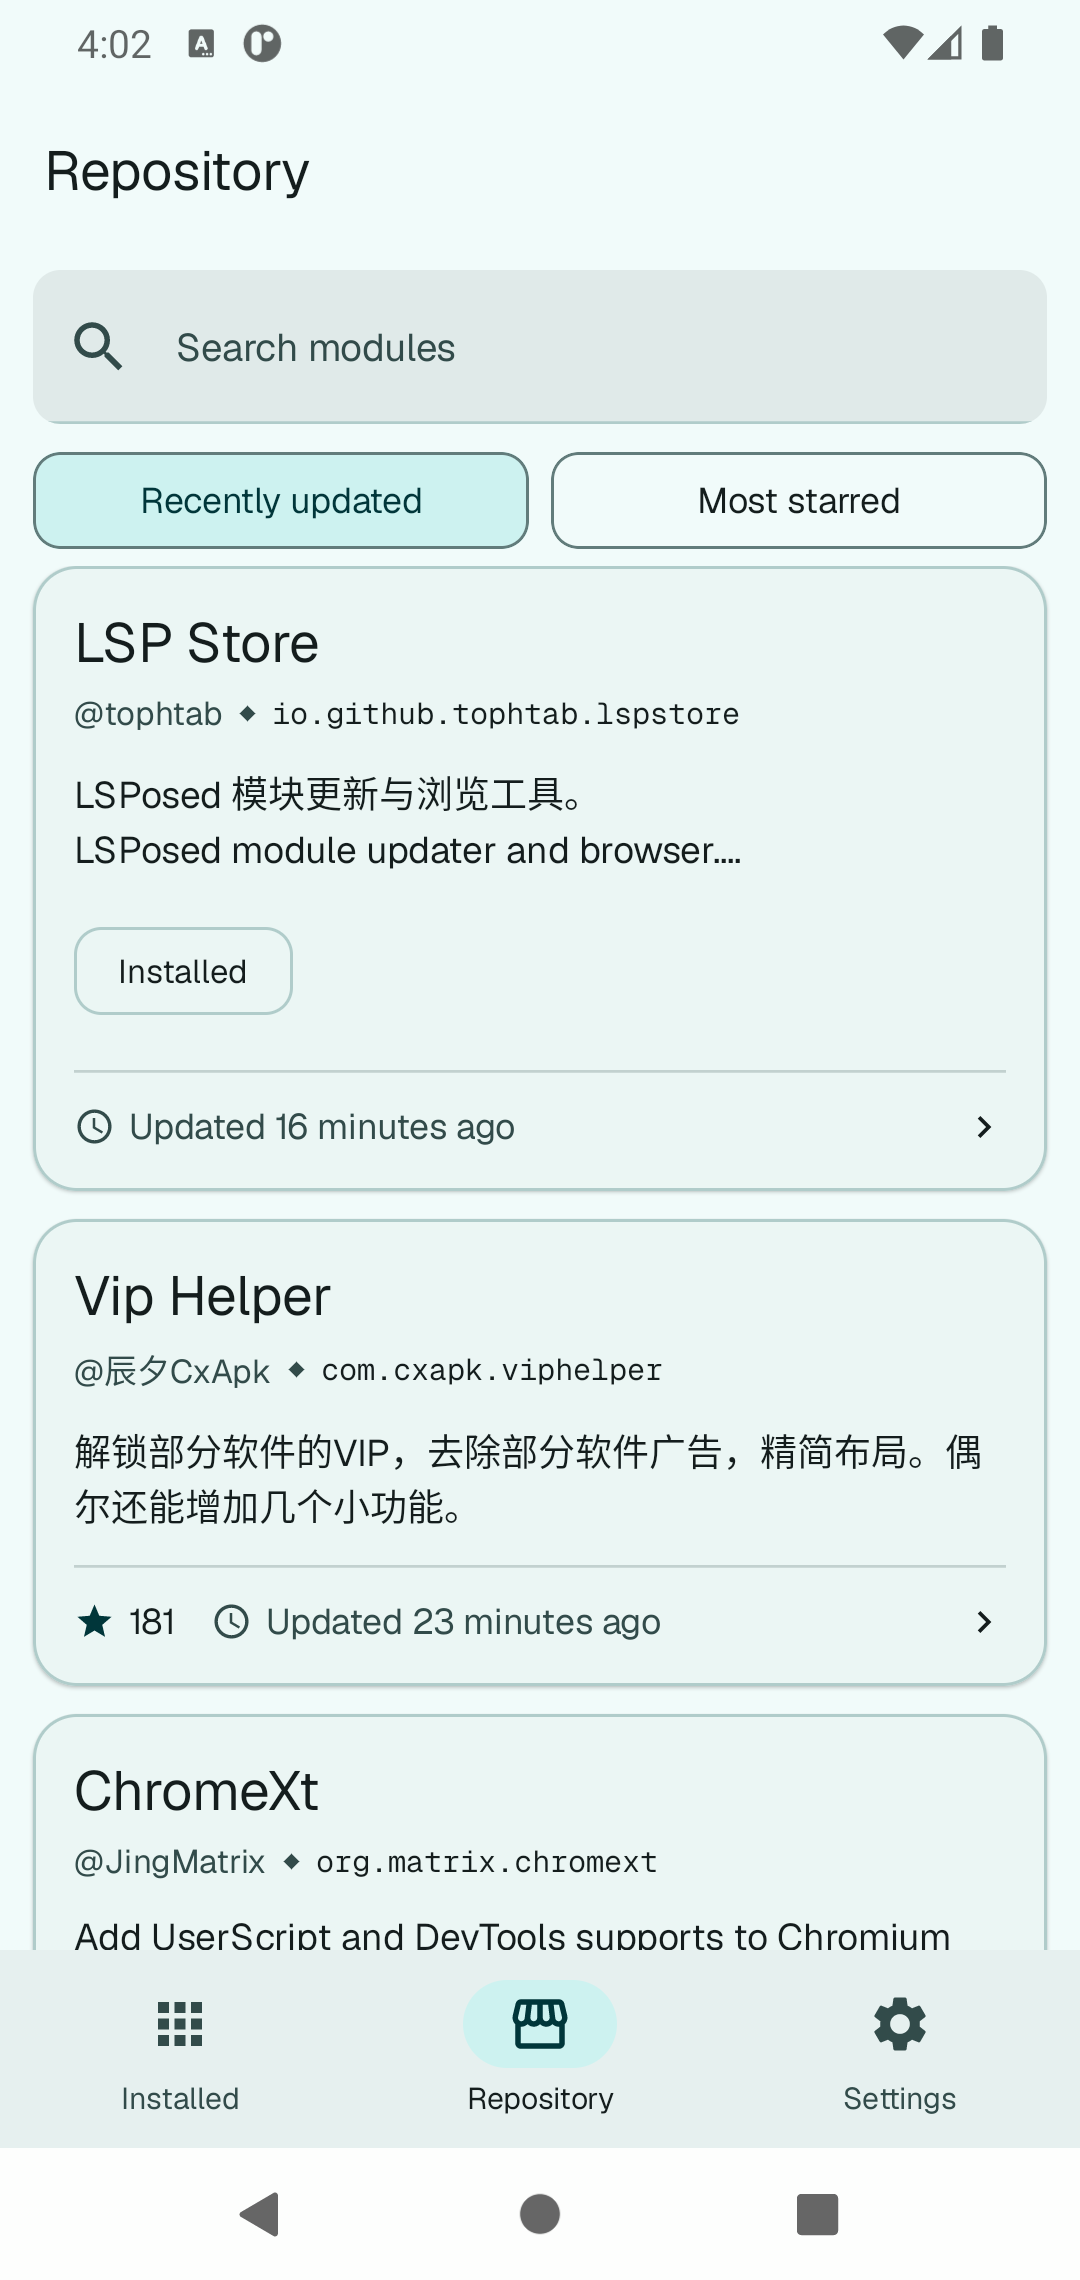
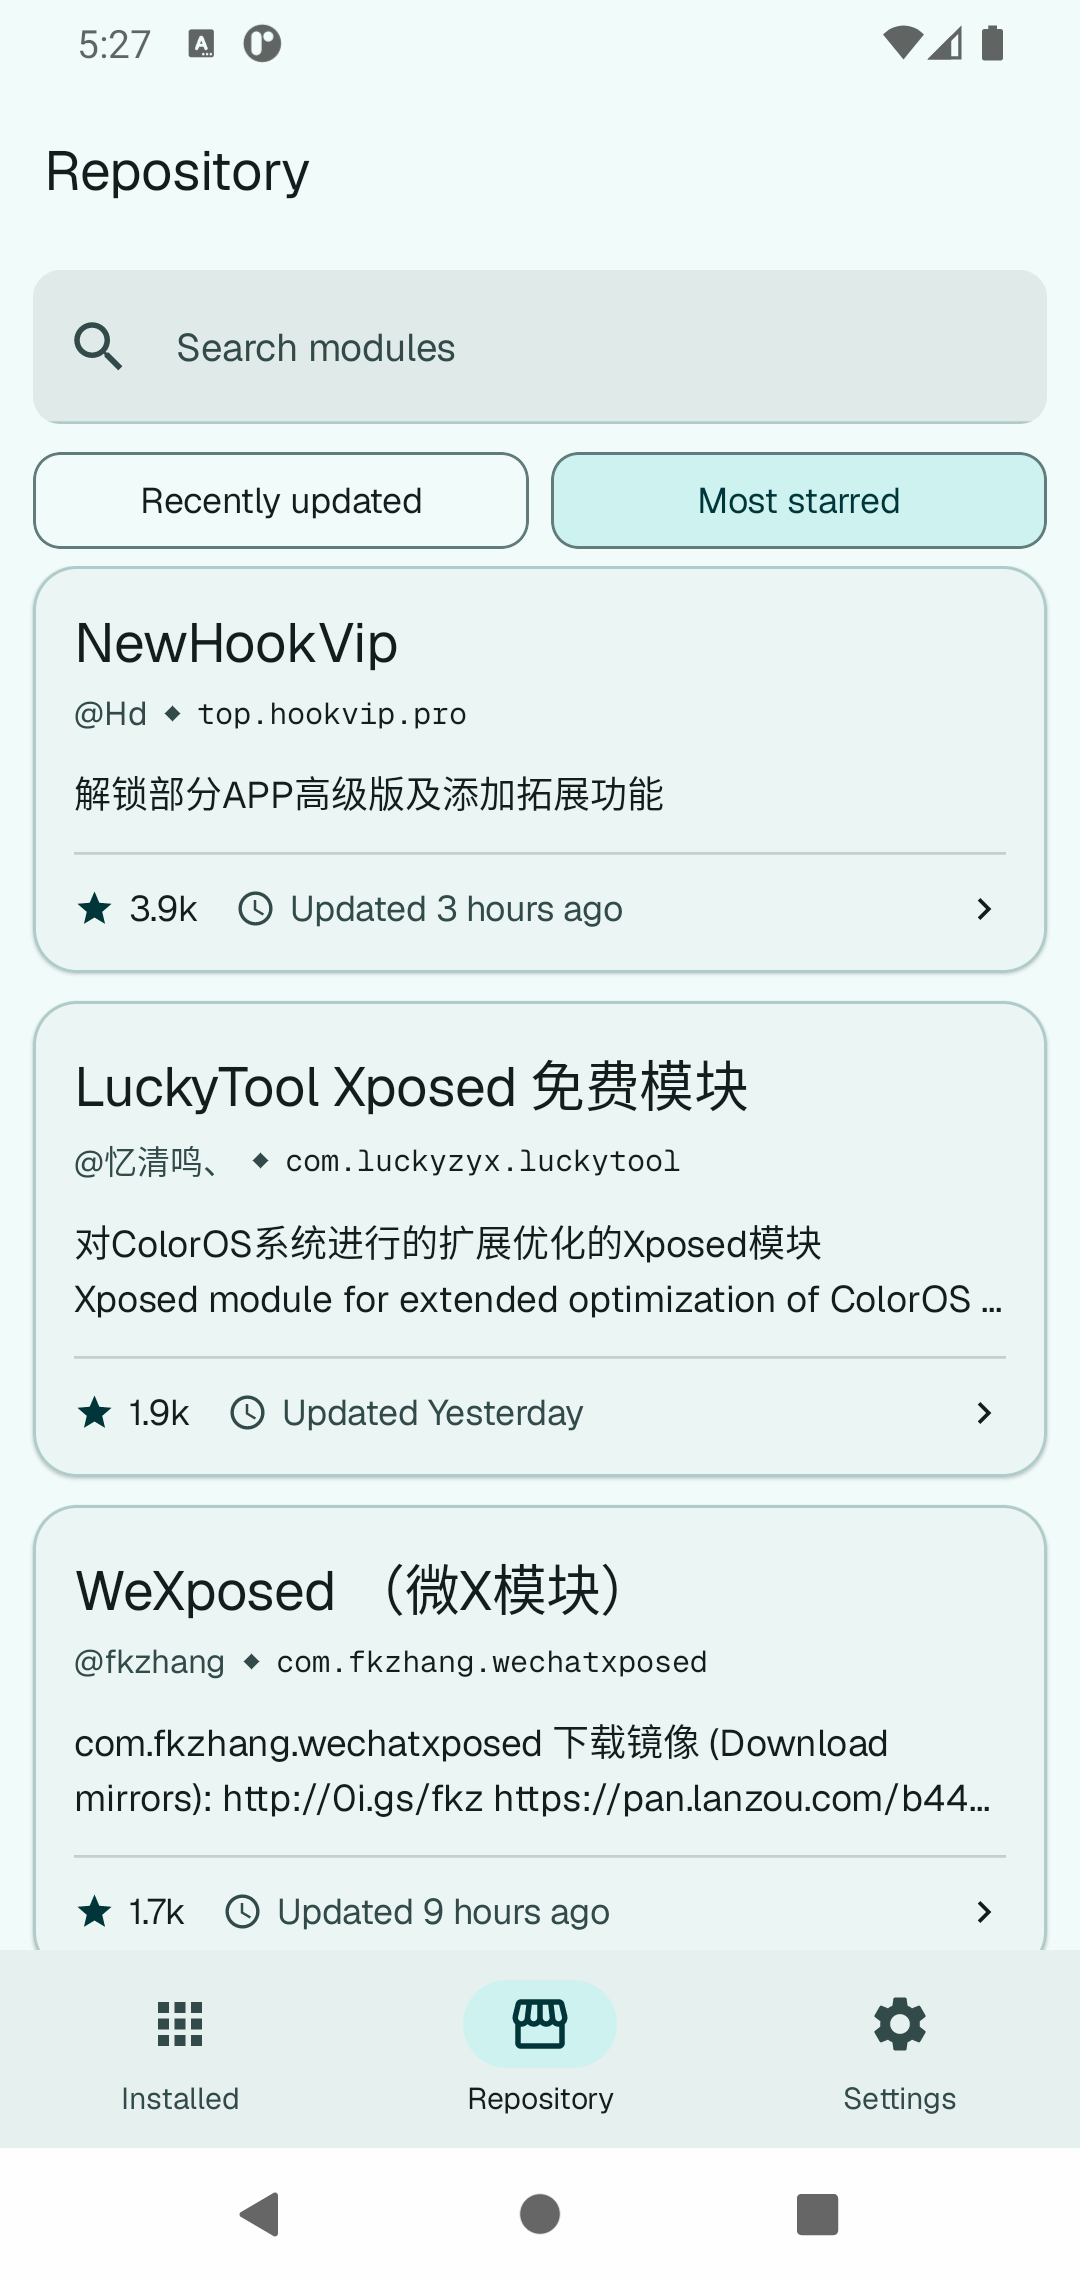
Screenshot the three tabs: installed, repository, settings
The tour still led with the module detail page and had no settings screen,
so it did not match the app's 已安装 | 仓库 | 设置 bottom bar. Retaken on the
same Pixel 4 AVD as the rest, all three at the same clock, with the store
itself updated to 1.0.1 so the installed row shows the shipping version.

The fastlane set is renamed accordingly (1 installed, 2 repository,
3 settings) and the release notes wording follows.

diff --git a/release-notes/1.0.1.md b/release-notes/1.0.1.md
@@ -1,6 +1,6 @@
 商店素材更新，没有功能改动。
 
-- 应用商店（F-Droid / IzzyOnDroid）的截图换成当前界面：模块页、仓库页、已安装页。
+- 应用商店（F-Droid / IzzyOnDroid）的截图换成当前界面的三个页面：已安装、仓库、设置。
 - 已安装页展示三个可更新模块，可直接看出「更新 / 全部更新」的作用。
 - README 增加三张页面截图，并把功能列表精简为名称。
 
@@ -8,8 +8,8 @@
 
 Store artwork refresh, no functional changes.
 
-- The F-Droid / IzzyOnDroid screenshots now show the current UI: module page,
-  repository and installed.
+- The F-Droid / IzzyOnDroid screenshots now show the current three tabs: installed,
+  repository and settings.
 - The installed screen lists three modules with updates available, so the
   per-module and "update all" actions are visible at a glance.
 - The README gained the same three screenshots and a name-only feature list.

diff --git a/CHANGELOG.md b/CHANGELOG.md
@@ -5,7 +5,7 @@
 ### Packaging
 
 - Store listing only: `fastlane/metadata/android/en-US/images/phoneScreenshots/` now
-  holds the current three screens (module, repository, installed) named `1.png`–`3.png`
+  holds the current three tabs (installed, repository, settings) named `1.png`–`3.png`
   as F-Droid expects, replacing the five screenshots from the old four-tab UI. No app
   code changed; the version was bumped because F-Droid and IzzyOnDroid only read
   `fastlane/` from the latest release.

diff --git a/README.en.md b/README.en.md
@@ -26,9 +26,9 @@ An updater and browser for LSPosed modules
 ### Screenshots
 
 <p align="center">
-  <img src="assets/screenshots/module.png" width="220" alt="Module page" />
-  <img src="assets/screenshots/repository.png" width="220" alt="Repository" />
   <img src="assets/screenshots/installed.png" width="220" alt="Installed" />
+  <img src="assets/screenshots/repository.png" width="220" alt="Repository" />
+  <img src="assets/screenshots/settings.png" width="220" alt="Settings" />
 </p>
 
 ---

diff --git a/README.md b/README.md
@@ -26,9 +26,9 @@ LSPosed 模块的更新与浏览工具
 ### 页面浏览
 
 <p align="center">
-  <img src="assets/screenshots/module.png" width="220" alt="模块页" />
-  <img src="assets/screenshots/repository.png" width="220" alt="仓库" />
   <img src="assets/screenshots/installed.png" width="220" alt="已安装" />
+  <img src="assets/screenshots/repository.png" width="220" alt="仓库" />
+  <img src="assets/screenshots/settings.png" width="220" alt="设置" />
 </p>
 
 ---
